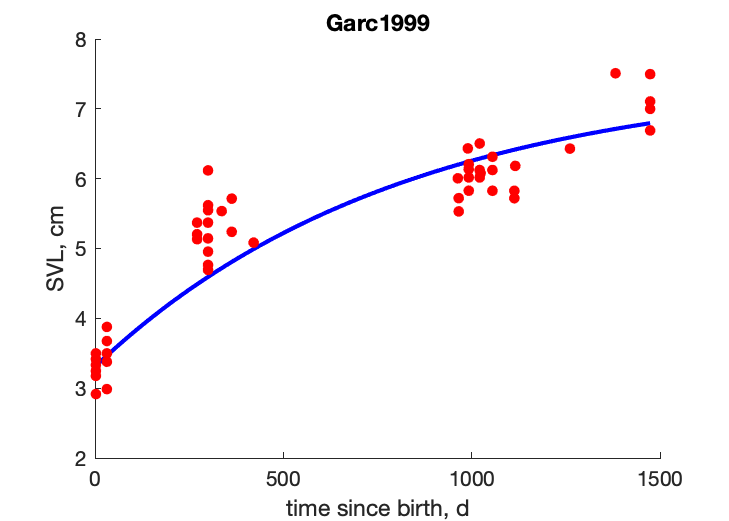
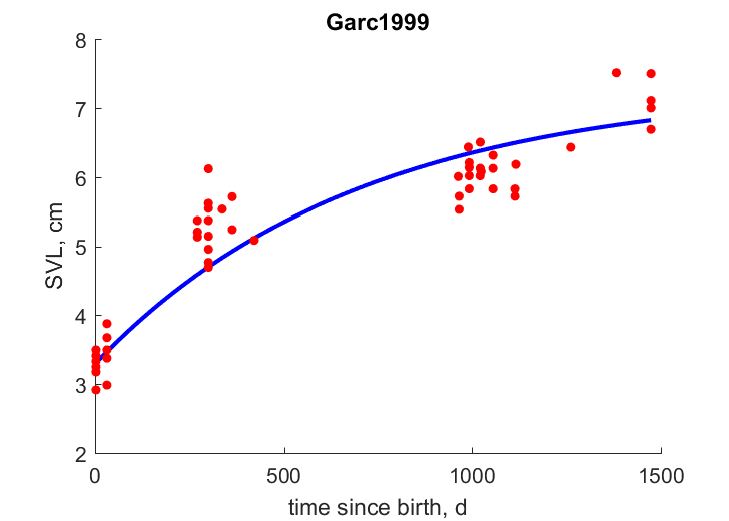
curation G.caesaris - removed f_LN from pars_init, included f_tL in predict file, adjusted weights for tL (all of the tL data used in estimations), formatting of bibitems

diff --git a/Gallotia_caesaris_res.html b/Gallotia_caesaris_res.html
@@ -44,7 +44,7 @@
   </div>
 
   <div class="par">
-  <h4>COMPLETE = 2.4; MRE =    0.035; SMSE =    0.035 </h4>
+  <h4>COMPLETE = 2.4; MRE =    0.043; SMSE =    0.041 </h4>
   </div>
 
   <p class="clear"></p>
@@ -53,27 +53,26 @@
   <h2>Data & predictions</h2>
   <TABLE id="prd">
     <TR  class="head"><TH>data</TH> <TH>prd</TH> <TH>RE</TH>  <TH>symbol</TH> <TH>units</TH> <TH>description</TH> </TR>
-    <TR><TD> 56</TD> <TD>59.3</TD> <TD>0.05893</TD> <TD>ab</TD> <TD>d</TD> <TD>age at birth</TD></TR>
-    <TR><TD>690</TD> <TD>685.4</TD> <TD>0.006722</TD> <TD>tp</TD> <TD>d</TD> <TD>time since birth at puberty</TD></TR>
-    <TR><TD>1830</TD> <TD>1830</TD> <TD>1.305e-08</TD> <TD>am</TD> <TD>d</TD> <TD>life span</TD></TR>
-    <TR><TD>3.4</TD> <TD>3.307</TD> <TD>0.02734</TD> <TD>Lb</TD> <TD>cm</TD> <TD>SVL at hatching</TD></TR>
-    <TR><TD>5.7</TD> <TD>5.68</TD> <TD>0.003437</TD> <TD>Lp</TD> <TD>cm</TD> <TD>SVL at puberty</TD></TR>
-    <TR><TD>6.2</TD> <TD>6.2</TD> <TD>4.94e-09</TD> <TD>Lpm</TD> <TD>cm</TD> <TD>SVL at puberty males</TD></TR>
-    <TR><TD>7.7</TD> <TD>7.475</TD> <TD>0.02925</TD> <TD>Li</TD> <TD>cm</TD> <TD>ultimate SVL</TD></TR>
-    <TR><TD>8.7</TD> <TD>9.143</TD> <TD>0.05095</TD> <TD>Lim</TD> <TD>cm</TD> <TD>ultimate SVL males</TD></TR>
-    <TR><TD>1.21</TD> <TD>1.308</TD> <TD>0.08121</TD> <TD>Ww0</TD> <TD>g</TD> <TD>wet weight of eggs</TD></TR>
-    <TR><TD>0.94</TD> <TD>0.8361</TD> <TD>0.1106</TD> <TD>Wwb</TD> <TD>g</TD> <TD>wet weight of hatchlings</TD></TR>
-    <TR><TD>9.3</TD> <TD>9.654</TD> <TD>0.03808</TD> <TD>Wwi</TD> <TD>g</TD> <TD>ultimate wet weight</TD></TR>
-    <TR><TD>18.5</TD> <TD>18.21</TD> <TD>0.01556</TD> <TD>Wwim</TD> <TD>g</TD> <TD>ultimate wet males</TD></TR>
-    <TR><TD>0.006849</TD> <TD>0.006701</TD> <TD>0.02171</TD> <TD>Ri</TD> <TD>#/d</TD> <TD>maximum reprod rate</TD></TR>
-    <TR><TD colspan="2">see figure</TD> <TD>0.05171</TD> <TD>tL</TD> <TD colspan="2">time since birth, <font color="blue"><i>vs.</i></font> SVL</TD>
-    <TR class="psd"><TD>0.02</TD> <TD>0.05349</TD> <TD>1.674</TD> <TD>psd.v</TD> <TD>cm/d</TD> <TD>energy conductance</TD></TR>
-    <TR class="psd"><TD>0.8</TD> <TD>0.7599</TD> <TD>0.05011</TD> <TD>psd.kap</TD> <TD>-</TD> <TD>allocation fraction to soma</TD></TR>
+    <TR><TD> 56</TD> <TD>59.35</TD> <TD>0.05987</TD> <TD>ab</TD> <TD>d</TD> <TD>age at birth</TD></TR>
+    <TR><TD>690</TD> <TD>674.9</TD> <TD>0.02193</TD> <TD>tp</TD> <TD>d</TD> <TD>time since birth at puberty</TD></TR>
+    <TR><TD>1830</TD> <TD>1830</TD> <TD>2.846e-09</TD> <TD>am</TD> <TD>d</TD> <TD>life span</TD></TR>
+    <TR><TD>3.4</TD> <TD>3.293</TD> <TD>0.03156</TD> <TD>Lb</TD> <TD>cm</TD> <TD>SVL at hatching</TD></TR>
+    <TR><TD>5.7</TD> <TD>5.79</TD> <TD>0.01576</TD> <TD>Lp</TD> <TD>cm</TD> <TD>SVL at puberty</TD></TR>
+    <TR><TD>6.2</TD> <TD>6.2</TD> <TD>7.186e-10</TD> <TD>Lpm</TD> <TD>cm</TD> <TD>SVL at puberty males</TD></TR>
+    <TR><TD>7.7</TD> <TD>7.517</TD> <TD>0.02372</TD> <TD>Li</TD> <TD>cm</TD> <TD>ultimate SVL</TD></TR>
+    <TR><TD>8.7</TD> <TD>9.157</TD> <TD>0.05258</TD> <TD>Lim</TD> <TD>cm</TD> <TD>ultimate SVL males</TD></TR>
+    <TR><TD>1.21</TD> <TD>1.325</TD> <TD>0.09491</TD> <TD>Ww0</TD> <TD>g</TD> <TD>wet weight of eggs</TD></TR>
+    <TR><TD>0.94</TD> <TD>0.8183</TD> <TD>0.1295</TD> <TD>Wwb</TD> <TD>g</TD> <TD>wet weight of hatchlings</TD></TR>
+    <TR><TD>9.3</TD> <TD>9.737</TD> <TD>0.04702</TD> <TD>Wwi</TD> <TD>g</TD> <TD>ultimate wet weight</TD></TR>
+    <TR><TD>18.5</TD> <TD>18.21</TD> <TD>0.01593</TD> <TD>Wwim</TD> <TD>g</TD> <TD>ultimate wet males</TD></TR>
+    <TR><TD>0.006849</TD> <TD>0.006645</TD> <TD>0.0299</TD> <TD>Ri</TD> <TD>#/d</TD> <TD>maximum reprod rate</TD></TR>
+    <TR><TD colspan="2">see figure</TD> <TD>0.07297</TD> <TD>tL</TD> <TD colspan="2">time since birth, <font color="blue"><i>vs.</i></font> SVL</TD>
+    <TR class="psd"><TD>0.02</TD> <TD>0.05172</TD> <TD>1.586</TD> <TD>psd.v</TD> <TD>cm/d</TD> <TD>energy conductance</TD></TR>
+    <TR class="psd"><TD>0.8</TD> <TD>0.7299</TD> <TD>0.08766</TD> <TD>psd.kap</TD> <TD>-</TD> <TD>allocation fraction to soma</TD></TR>
     <TR class="psd"><TD>0.95</TD> <TD>0.95</TD> <TD>  0</TD> <TD>psd.kap_R</TD> <TD>-</TD> <TD>reproduction efficiency</TD></TR>
-    <TR class="psd"><TD> 18</TD> <TD>22.1</TD> <TD>0.2276</TD> <TD>psd.p_M</TD> <TD>J/d.cm^3</TD> <TD>vol-spec som maint</TD></TR>
-    <TR class="psd"><TD>0.002</TD> <TD>0.0008287</TD> <TD>0.5856</TD> <TD>psd.k_J</TD> <TD>1/d</TD> <TD>maturity maint rate coefficient</TD></TR>
-    <TR class="psd"><TD>0.8</TD> <TD>0.8034</TD> <TD>0.004215</TD> <TD>psd.kap_G</TD> <TD>-</TD> <TD>growth efficiency</TD></TR>
-    <TR class="psd"><TD>0.3</TD> <TD>0.293</TD> <TD>0.02338</TD> <TD>psd.k</TD> <TD>-</TD> <TD>maintenance ratio</TD></TR>
+    <TR class="psd"><TD> 18</TD> <TD>24.08</TD> <TD>0.3375</TD> <TD>psd.p_M</TD> <TD>J/d.cm^3</TD> <TD>vol-spec som maint</TD></TR>
+    <TR class="psd"><TD>0.002</TD> <TD>0.002</TD> <TD>  0</TD> <TD>psd.k_J</TD> <TD>1/d</TD> <TD>maturity maint rate coefficient</TD></TR>
+    <TR class="psd"><TD>0.8</TD> <TD>0.804</TD> <TD>0.005012</TD> <TD>psd.kap_G</TD> <TD>-</TD> <TD>growth efficiency</TD></TR>
   </TABLE>
   </div>
 
@@ -83,27 +82,26 @@
     <TR class="head"><TH>symbol</TH> <TH>units</TH> <TH>value</TH>  <TH>free</TH> <TH>description</TH> </TR>
     <TR><TD>T_ref</TD> <TD>K</TD> <TD>293.1</TD> <TD>0</TD> <TD>Reference temperature</TD></TR>
     <TR><TD>T_A</TD> <TD>K</TD> <TD>8000</TD> <TD>0</TD> <TD>Arrhenius temperature</TD></TR>
-    <TR><TD>z</TD> <TD>-</TD> <TD>2.027</TD> <TD>1</TD> <TD>zoom factor for females</TD></TR>
+    <TR><TD>z</TD> <TD>-</TD> <TD>2.017</TD> <TD>1</TD> <TD>zoom factor for females</TD></TR>
     <TR><TD>F_m</TD> <TD>l/d.cm^2</TD> <TD>6.5</TD> <TD>0</TD> <TD>{F_m}, max spec searching rate</TD></TR>
     <TR><TD>kap_X</TD> <TD>-</TD> <TD>0.8</TD> <TD>0</TD> <TD>digestion efficiency of food to reserve</TD></TR>
     <TR><TD>kap_P</TD> <TD>-</TD> <TD>0.1</TD> <TD>0</TD> <TD>faecation efficiency of food to faeces</TD></TR>
-    <TR><TD>v</TD> <TD>cm/d</TD> <TD>0.05349</TD> <TD>1</TD> <TD>energy conductance</TD></TR>
-    <TR><TD>kap</TD> <TD>-</TD> <TD>0.7599</TD> <TD>1</TD> <TD>allocation fraction to soma</TD></TR>
+    <TR><TD>v</TD> <TD>cm/d</TD> <TD>0.05172</TD> <TD>1</TD> <TD>energy conductance</TD></TR>
+    <TR><TD>kap</TD> <TD>-</TD> <TD>0.7299</TD> <TD>1</TD> <TD>allocation fraction to soma</TD></TR>
     <TR><TD>kap_R</TD> <TD>-</TD> <TD>0.95</TD> <TD>0</TD> <TD>reproduction efficiency</TD></TR>
-    <TR><TD>p_M</TD> <TD>J/d.cm^3</TD> <TD>22.1</TD> <TD>1</TD> <TD>[p_M], vol-spec somatic maint</TD></TR>
+    <TR><TD>p_M</TD> <TD>J/d.cm^3</TD> <TD>24.08</TD> <TD>1</TD> <TD>[p_M], vol-spec somatic maint</TD></TR>
     <TR><TD>p_T</TD> <TD>J/d.cm^2</TD> <TD>  0</TD> <TD>0</TD> <TD>{p_T}, surf-spec somatic maint</TD></TR>
-    <TR><TD>k_J</TD> <TD>1/d</TD> <TD>0.0008287</TD> <TD>1</TD> <TD>maturity maint rate coefficient</TD></TR>
-    <TR><TD>E_G</TD> <TD>J/cm^3</TD> <TD>7812</TD> <TD>1</TD> <TD>[E_G], spec cost for structure</TD></TR>
-    <TR><TD>E_Hb</TD> <TD>J</TD> <TD>1917</TD> <TD>1</TD> <TD>maturity at birth</TD></TR>
-    <TR><TD>E_Hp</TD> <TD>J</TD> <TD>1.69e+04</TD> <TD>1</TD> <TD>maturity at puberty</TD></TR>
-    <TR><TD>h_a</TD> <TD>1/d^2</TD> <TD>8.758e-09</TD> <TD>1</TD> <TD>Weibull aging acceleration</TD></TR>
+    <TR><TD>k_J</TD> <TD>1/d</TD> <TD>0.002</TD> <TD>0</TD> <TD>maturity maint rate coefficient</TD></TR>
+    <TR><TD>E_G</TD> <TD>J/cm^3</TD> <TD>7806</TD> <TD>1</TD> <TD>[E_G], spec cost for structure</TD></TR>
+    <TR><TD>E_Hb</TD> <TD>J</TD> <TD>2073</TD> <TD>1</TD> <TD>maturity at birth</TD></TR>
+    <TR><TD>E_Hp</TD> <TD>J</TD> <TD>1.441e+04</TD> <TD>1</TD> <TD>maturity at puberty</TD></TR>
+    <TR><TD>h_a</TD> <TD>1/d^2</TD> <TD>9.015e-09</TD> <TD>1</TD> <TD>Weibull aging acceleration</TD></TR>
     <TR><TD>s_G</TD> <TD>-</TD> <TD>0.0001</TD> <TD>0</TD> <TD>Gompertz stress coefficient</TD></TR>
-    <TR><TD>E_Hpm</TD> <TD>J</TD> <TD>1.077e+04</TD> <TD>1</TD> <TD>maturity at puberty for males</TD></TR>
-    <TR><TD>del_M</TD> <TD>-</TD> <TD>0.2711</TD> <TD>1</TD> <TD>shape coefficient</TD></TR>
+    <TR><TD>E_Hpm</TD> <TD>J</TD> <TD>9346</TD> <TD>1</TD> <TD>maturity at puberty for males</TD></TR>
+    <TR><TD>del_M</TD> <TD>-</TD> <TD>0.2683</TD> <TD>1</TD> <TD>shape coefficient</TD></TR>
     <TR><TD>f</TD> <TD>-</TD> <TD>  1</TD> <TD>0</TD> <TD>scaled functional response for 0-var data</TD></TR>
-    <TR><TD>f_LN</TD> <TD>-</TD> <TD>  1</TD> <TD>0</TD> <TD>scaled functional response for LN data</TD></TR>
-    <TR><TD>f_tL</TD> <TD>-</TD> <TD>  1</TD> <TD>0</TD> <TD>scaled functional response for tL data</TD></TR>
-    <TR><TD>z_m</TD> <TD>-</TD> <TD>2.479</TD> <TD>1</TD> <TD>zoom factor for males</TD></TR>
+    <TR><TD>f_tL</TD> <TD>-</TD> <TD>0.2606</TD> <TD>1</TD> <TD>scaled functional response for tL data</TD></TR>
+    <TR><TD>z_m</TD> <TD>-</TD> <TD>2.457</TD> <TD>1</TD> <TD>zoom factor for males</TD></TR>
   </TABLE>
   </div>
 

diff --git a/pars_init_Gallotia_caesaris.m b/pars_init_Gallotia_caesaris.m
@@ -7,29 +7,28 @@ par.T_ref = 293.15;   free.T_ref = 0;   units.T_ref = 'K';        label.T_ref = 
 
 %% core primary parameters 
 par.T_A = 8000;       free.T_A   = 0;   units.T_A = 'K';          label.T_A = 'Arrhenius temperature'; 
-par.z = 2.0268;       free.z     = 1;   units.z = '-';            label.z = 'zoom factor for females'; 
+par.z = 2.0172;       free.z     = 1;   units.z = '-';            label.z = 'zoom factor for females'; 
 par.F_m = 6.5;        free.F_m   = 0;   units.F_m = 'l/d.cm^2';   label.F_m = '{F_m}, max spec searching rate'; 
 par.kap_X = 0.8;      free.kap_X = 0;   units.kap_X = '-';        label.kap_X = 'digestion efficiency of food to reserve'; 
 par.kap_P = 0.1;      free.kap_P = 0;   units.kap_P = '-';        label.kap_P = 'faecation efficiency of food to faeces'; 
-par.v = 0.053487;     free.v     = 1;   units.v = 'cm/d';         label.v = 'energy conductance'; 
-par.kap = 0.75991;    free.kap   = 1;   units.kap = '-';          label.kap = 'allocation fraction to soma'; 
+par.v = 0.051718;     free.v     = 1;   units.v = 'cm/d';         label.v = 'energy conductance'; 
+par.kap = 0.72987;    free.kap   = 1;   units.kap = '-';          label.kap = 'allocation fraction to soma'; 
 par.kap_R = 0.95;     free.kap_R = 0;   units.kap_R = '-';        label.kap_R = 'reproduction efficiency'; 
-par.p_M = 22.0974;    free.p_M   = 1;   units.p_M = 'J/d.cm^3';   label.p_M = '[p_M], vol-spec somatic maint'; 
+par.p_M = 24.0755;    free.p_M   = 1;   units.p_M = 'J/d.cm^3';   label.p_M = '[p_M], vol-spec somatic maint'; 
 par.p_T = 0;          free.p_T   = 0;   units.p_T = 'J/d.cm^2';   label.p_T = '{p_T}, surf-spec somatic maint'; 
-par.k_J = 0.00082873;  free.k_J   = 1;   units.k_J = '1/d';        label.k_J = 'maturity maint rate coefficient'; 
-par.E_G = 7812.2569;  free.E_G   = 1;   units.E_G = 'J/cm^3';     label.E_G = '[E_G], spec cost for structure'; 
-par.E_Hb = 1.917e+03; free.E_Hb  = 1;   units.E_Hb = 'J';         label.E_Hb = 'maturity at birth'; 
-par.E_Hp = 1.690e+04; free.E_Hp  = 1;   units.E_Hp = 'J';         label.E_Hp = 'maturity at puberty'; 
-par.h_a = 8.758e-09;  free.h_a   = 1;   units.h_a = '1/d^2';      label.h_a = 'Weibull aging acceleration'; 
+par.k_J = 0.002;      free.k_J   = 0;   units.k_J = '1/d';        label.k_J = 'maturity maint rate coefficient'; 
+par.E_G = 7806.0649;  free.E_G   = 1;   units.E_G = 'J/cm^3';     label.E_G = '[E_G], spec cost for structure'; 
+par.E_Hb = 2.073e+03; free.E_Hb  = 1;   units.E_Hb = 'J';         label.E_Hb = 'maturity at birth'; 
+par.E_Hp = 1.441e+04; free.E_Hp  = 1;   units.E_Hp = 'J';         label.E_Hp = 'maturity at puberty'; 
+par.h_a = 9.015e-09;  free.h_a   = 1;   units.h_a = '1/d^2';      label.h_a = 'Weibull aging acceleration'; 
 par.s_G = 0.0001;     free.s_G   = 0;   units.s_G = '-';          label.s_G = 'Gompertz stress coefficient'; 
 
 %% other parameters 
-par.E_Hpm = 1.077e+04; free.E_Hpm = 1;   units.E_Hpm = 'J';        label.E_Hpm = 'maturity at puberty for males'; 
-par.del_M = 0.27115;  free.del_M = 1;   units.del_M = '-';        label.del_M = 'shape coefficient'; 
+par.E_Hpm = 9.346e+03; free.E_Hpm = 1;   units.E_Hpm = 'J';        label.E_Hpm = 'maturity at puberty for males'; 
+par.del_M = 0.26833;  free.del_M = 1;   units.del_M = '-';        label.del_M = 'shape coefficient'; 
 par.f = 1;            free.f     = 0;   units.f = '-';            label.f = 'scaled functional response for 0-var data'; 
-par.f_LN = 1;         free.f_LN  = 0;   units.f_LN = '-';         label.f_LN = 'scaled functional response for LN data'; 
-par.f_tL = 1;         free.f_tL  = 0;   units.f_tL = '-';         label.f_tL = 'scaled functional response for tL data'; 
-par.z_m = 2.4792;     free.z_m   = 1;   units.z_m = '-';          label.z_m = 'zoom factor for males'; 
+par.f_tL = 0.26062;   free.f_tL  = 1;   units.f_tL = '-';         label.f_tL = 'scaled functional response for tL data'; 
+par.z_m = 2.4573;     free.z_m   = 1;   units.z_m = '-';          label.z_m = 'zoom factor for males'; 
 
 %% set chemical parameters from Kooy2010 
 [par, units, label, free] = addchem(par, units, label, free, metaData.phylum, metaData.class); 

diff --git a/predict_Gallotia_caesaris.m b/predict_Gallotia_caesaris.m
@@ -1,5 +1,6 @@
 function [prdData, info] = predict_Gallotia_caesaris(par, data, auxData)
-  
+ 
+
   % unpack par, data, auxData
   cPar = parscomp_st(par); vars_pull(par); 
   vars_pull(cPar);  vars_pull(data);  vars_pull(auxData);
@@ -79,7 +80,10 @@ function [prdData, info] = predict_Gallotia_caesaris(par, data, auxData)
  % univar data
   
   % time-SVL
-  rT_B = TC_tL * k_M/ 3/ (1 + f/ g); % 1/d, von Bert growth rate
+  F = f_tL;  % applies only after hatching (growth during drought) so L_b assumed the same as for zero-var 
+  l_i = F - l_T;                    % -, scaled ultimate length
+  L_i = L_m * l_i/del_M;                  % cm, ultimate structural length at f
+  rT_B = TC_tL * k_M/ 3/ (1 + F/ g); % 1/d, von Bert growth rate
   ELw = (L_i - (L_i - L_b) * exp( - rT_B * tL(:,1)))/ del_M; % cm, SVL 
   
   % pack to output

diff --git a/run_Gallotia_caesaris.m b/run_Gallotia_caesaris.m
@@ -8,8 +8,8 @@ estim_options('default');
 estim_options('max_step_number', 5e5); 
 estim_options('max_fun_evals', 5e3); 
 
-estim_options('pars_init_method', 1); 
+estim_options('pars_init_method', 2); 
 estim_options('results_output', 3); 
-estim_options('method', 'nm'); 
+estim_options('method', 'no'); 
 
 estim_pars; 
